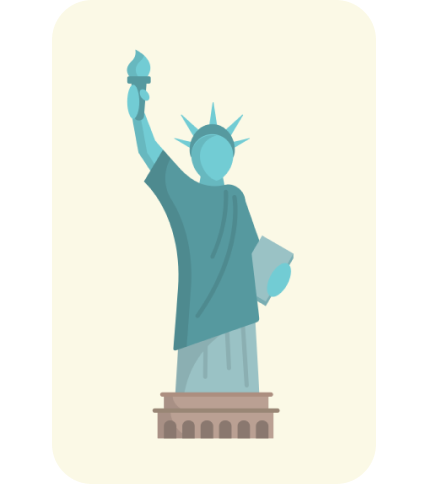
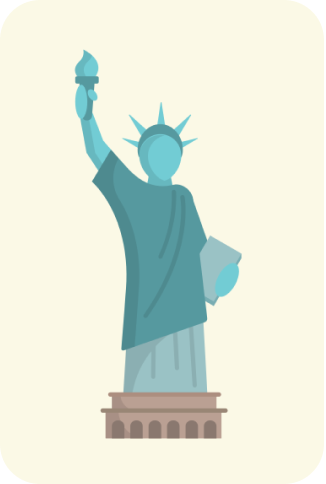
shadow removal and button fix

diff --git a/components/contents/contentsScreen.tsx b/components/contents/contentsScreen.tsx
@@ -35,7 +35,7 @@ export default function ContentsScreen({
   //   router.push(`/${topic}/?page=${pageNumberInt}`);
   // };
   return (
-    <div className="flex w-full flex-col relative h-full flex-grow justify-between content-center">
+    <div className="flex w-full flex-col relative h-screen flex-grow justify-between content-center">
       <header className="flex absoulte top-0 left-0 justify-start py-5 gap-x-5">
         <Link href="/contents" className="flex-shrink-0">
           <Image src="/leftChevron.svg" width={8} height={19} alt="leftChevron" />
@@ -44,7 +44,7 @@ export default function ContentsScreen({
         <span className="text-[16px] text-black1 font-bold">{headerString}</span>
       </header>
       <div className="w-full mb-5 h-[1px] bg-black4" />
-      <main className="flex flex-col justify-between overflow-y-auto h-full px-5">
+      <main className="flex flex-col justify-start overflow-y-auto h-full px-5">
         <div className="flex flex-col">
           <span className="flex-shrink-0 font-bold text-[20px]">{articleHeaderString}</span>
           {articleString && <div className="my-10">{articleString}</div>}
@@ -70,18 +70,18 @@ export default function ContentsScreen({
           )}
           {greyBlockContent && <div className="w-full px-3 py-2 rounded-md bg-[#DBDBDB] bg-opacity-35">{greyBlockContent}</div>}
         </div>
-        <div className="flex content-end my-5">
-          {pageNumber ? (
-            <Link href={`${topic}?page=${parseInt(pageNumber) + 1}`} className="h-[60px] flex-shrink-0 items-center rounded-[14px] w-full flex justify-center content-center bg-black2">
-              <span className="font-nanum text-white text-[16px]">다음</span>
-            </Link>
-          ) : (
-            <Link href={`${topic}`} className="h-[60px] flex-shrink-0 items-center rounded-[14px] w-full flex justify-center content-center bg-black2">
-              <span className="font-nanum text-white text-[16px]">다음</span>
-            </Link>
-          )}
-        </div>
       </main>
+      <div className="flex content-center my-5">
+        {pageNumber ? (
+          <Link href={`${topic}?page=${parseInt(pageNumber) + 1}`} className="h-[60px] flex-shrink-0 items-center rounded-[14px] w-full flex justify-center content-center bg-black2">
+            <span className="font-nanum text-white text-[16px]">다음</span>
+          </Link>
+        ) : (
+          <Link href={`${topic}`} className="h-[60px] flex-shrink-0 items-center rounded-[14px] w-full flex justify-center content-center bg-black2">
+            <span className="font-nanum text-white text-[16px]">다음</span>
+          </Link>
+        )}
+      </div>
     </div>
   );
 }

diff --git a/app/layout.tsx b/app/layout.tsx
@@ -16,11 +16,7 @@ export default function RootLayout({
   return (
     <html lang="en" className="min-h-full">
       <body className={" h-full flex justify-center bg-[#c1f1c1] min-h-full  "}>
-        <div
-          className={`${FontClassNames} sm:max-w-[640px] w-full min-h-screen h-auto bg-white px-6 py-4 `}
-        >
-          {children}
-        </div>
+        <div className={`${FontClassNames} min-[500px]:max-w-[420px] w-full min-h-screen h-auto bg-white px-6 `}>{children}</div>
       </body>
     </html>
   );

diff --git a/app/contents/page.tsx b/app/contents/page.tsx
@@ -24,7 +24,7 @@ export default function Contents() {
     {
       contentString: "일반식을 먹었다가 \n살이 찌면 어쩌지?",
       timeRequiring: "1분",
-      imgSrc: "/eating learning/curriculum/learn_3.png",
+      imgSrc: "/eating learning/curriculum/learn_3_not_shadow.png",
       path: "/contents/learn_3?page=1",
     },
     {
